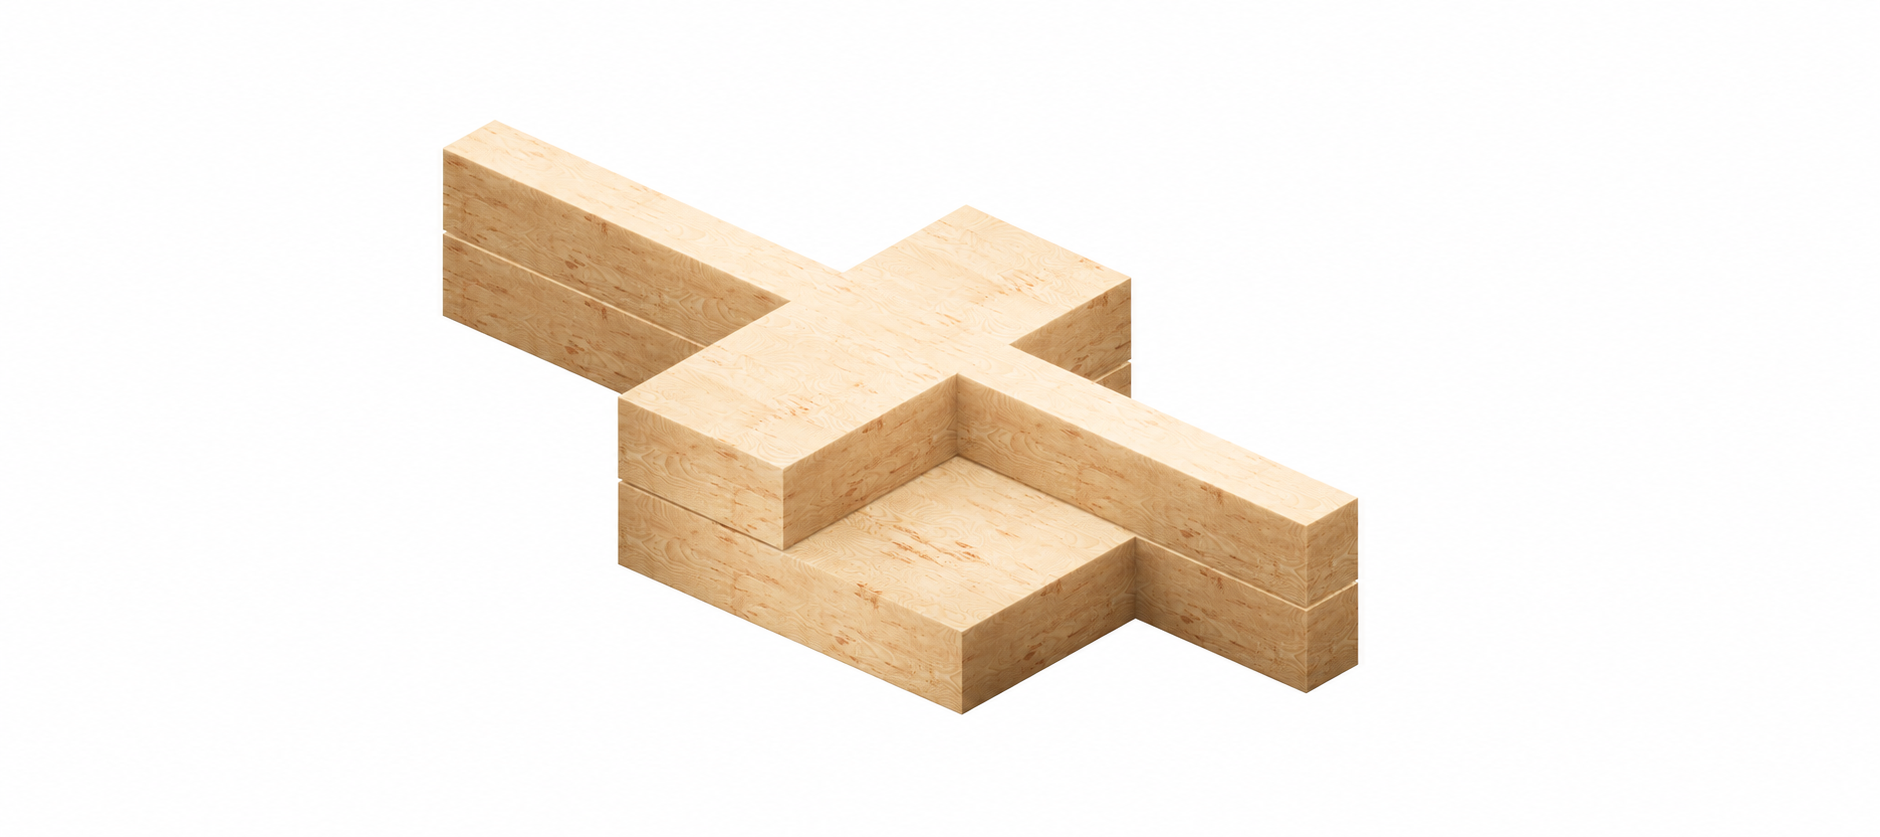
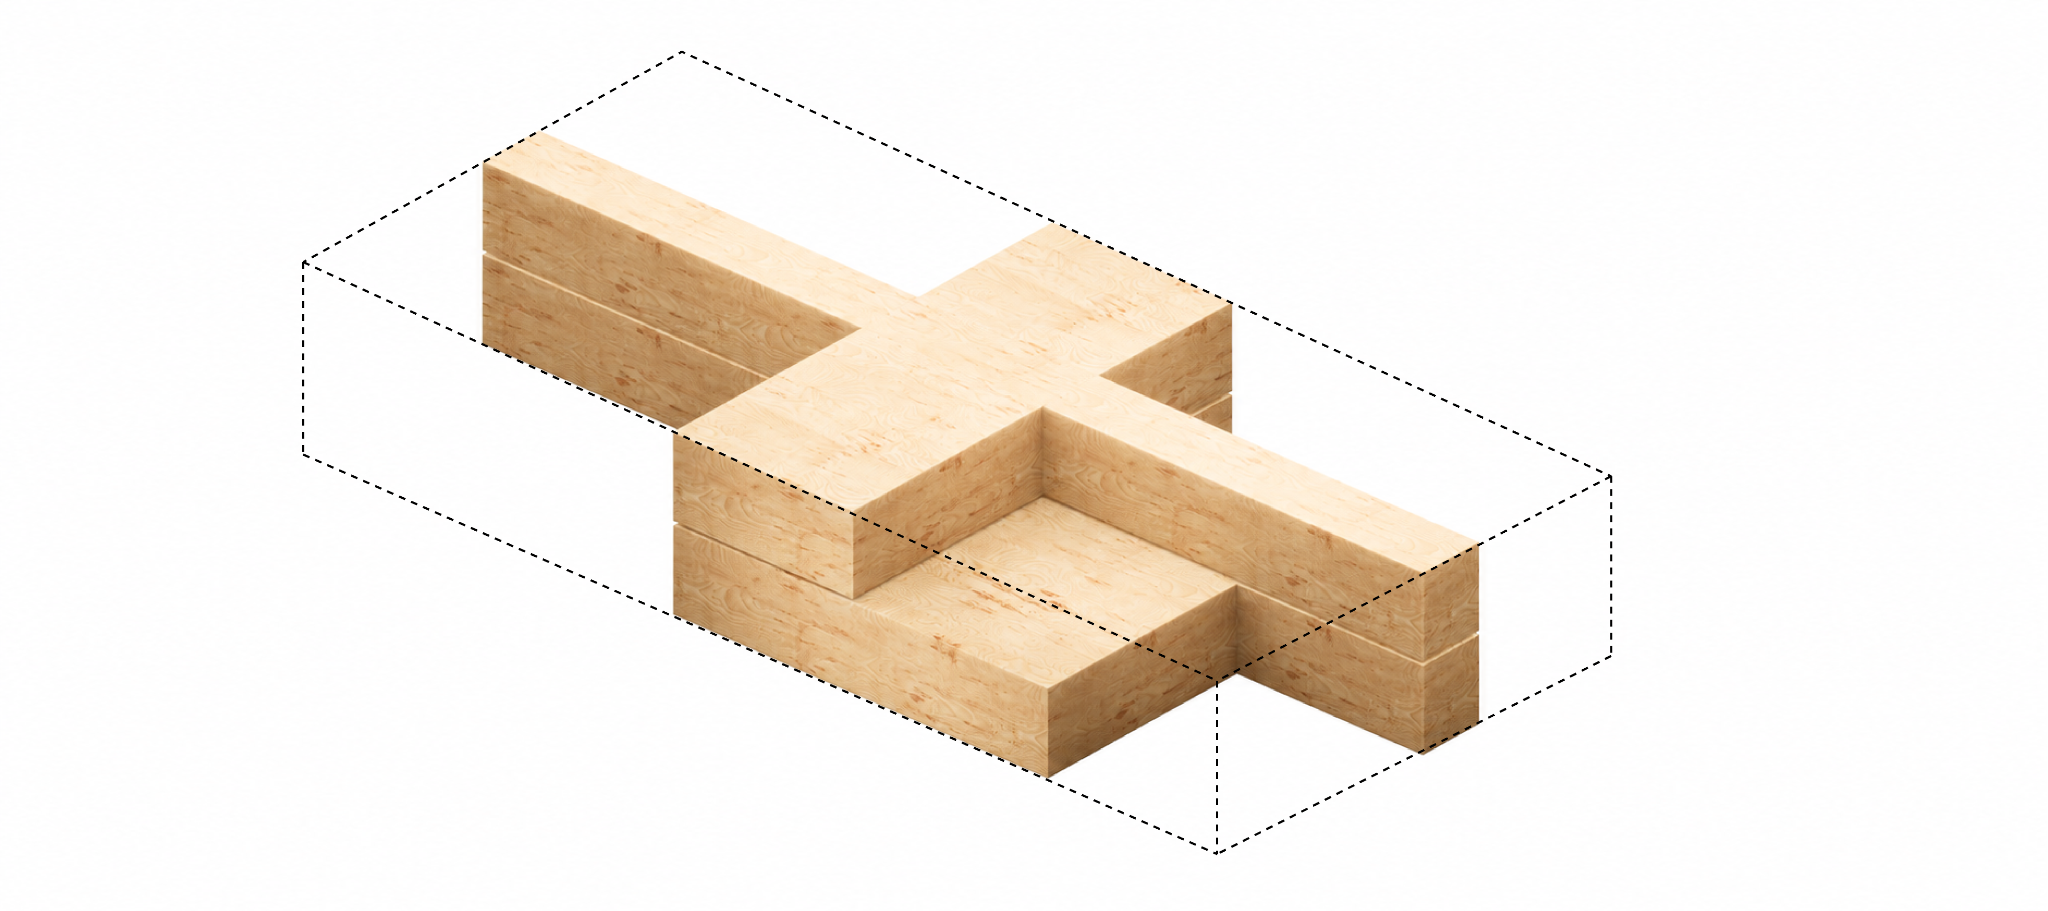
Replace senior rehabilitation project cover with outlined volume image

diff --git a/index.html b/index.html
@@ -624,7 +624,7 @@ body:not(:has(.reference-section.active)) {
         // Код 1-ээс эхлээд дараалуулан зураг байгаа эсэхийг шалгаж, олдохгүй
         // болмогц зогсоно. Ингэснээр HTML огт засалгүйгээр зураг нэмэх/хасах боломжтой.
         const MAX_IMAGES_PER_PROJECT = 40; // нэг project-д байж болох дээд зургийн тоо
-        const IMAGE_VERSION = 6; // Ижил нэртэй зураг солихдоо энэ дугаарыг нэгээр нэмнэ.
+        const IMAGE_VERSION = 7; // Ижил нэртэй зураг солихдоо энэ дугаарыг нэгээр нэмнэ.
         const IMAGE_EXTENSIONS = ['jpg', 'jpeg', 'png', 'JPG', 'JPEG', 'PNG'];
 
         function tryLoadOneImage(url) {
